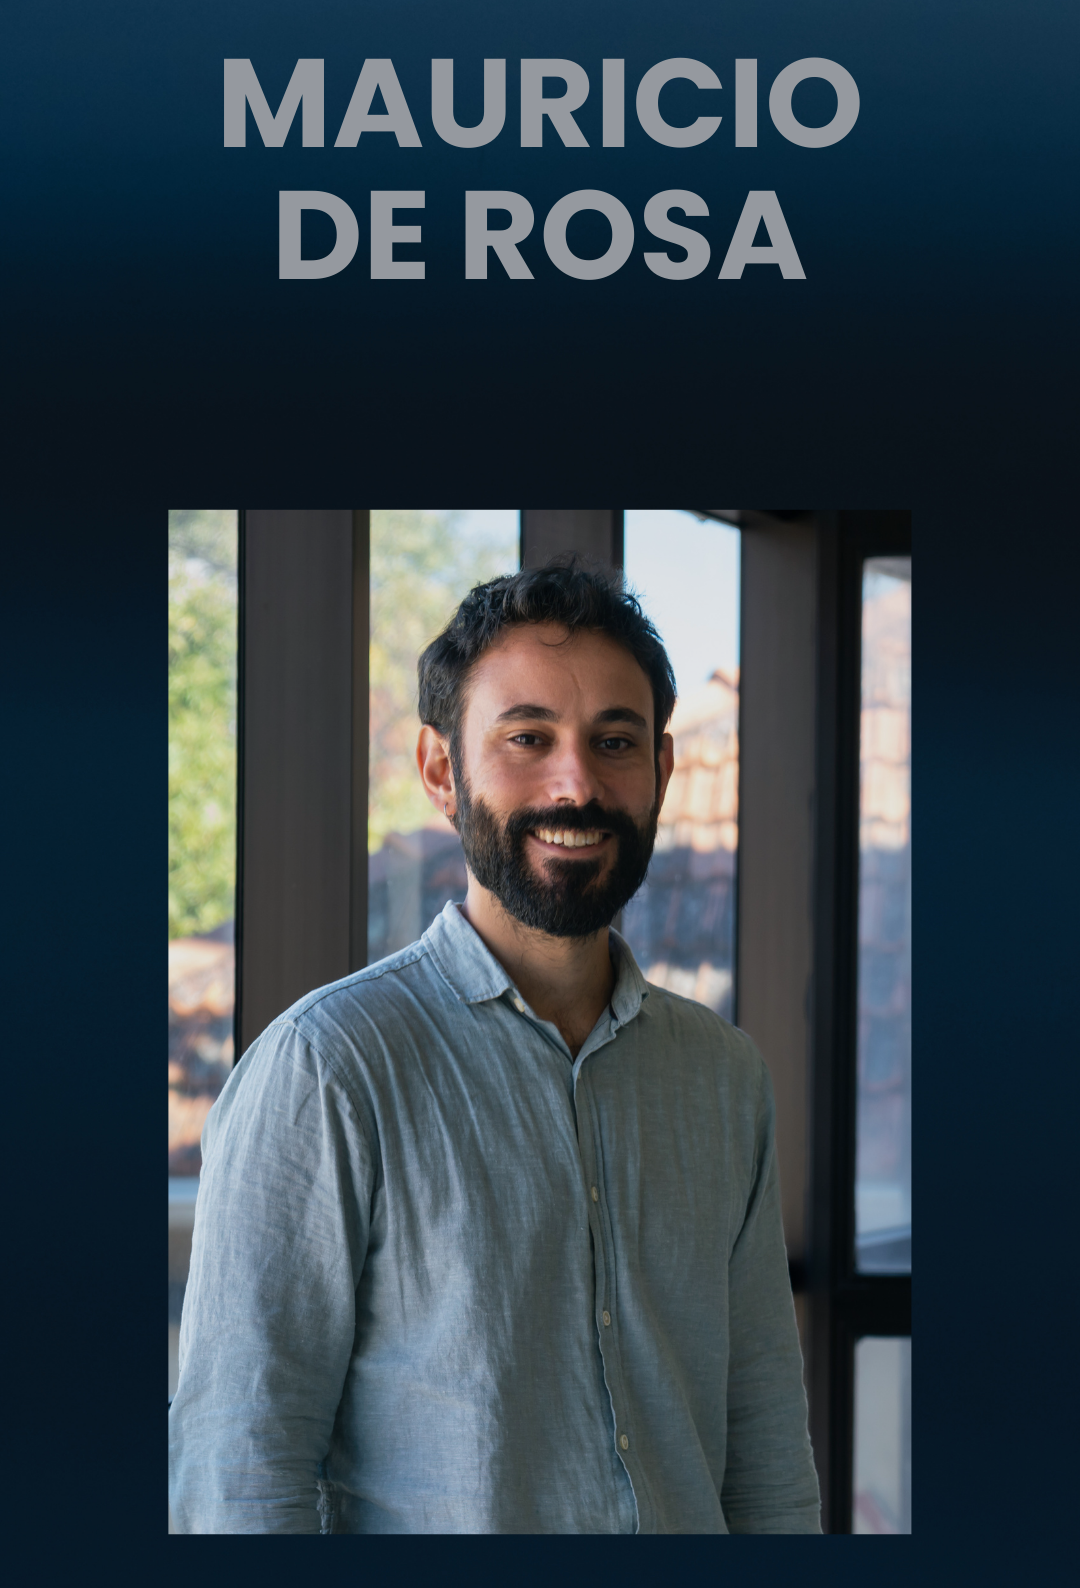
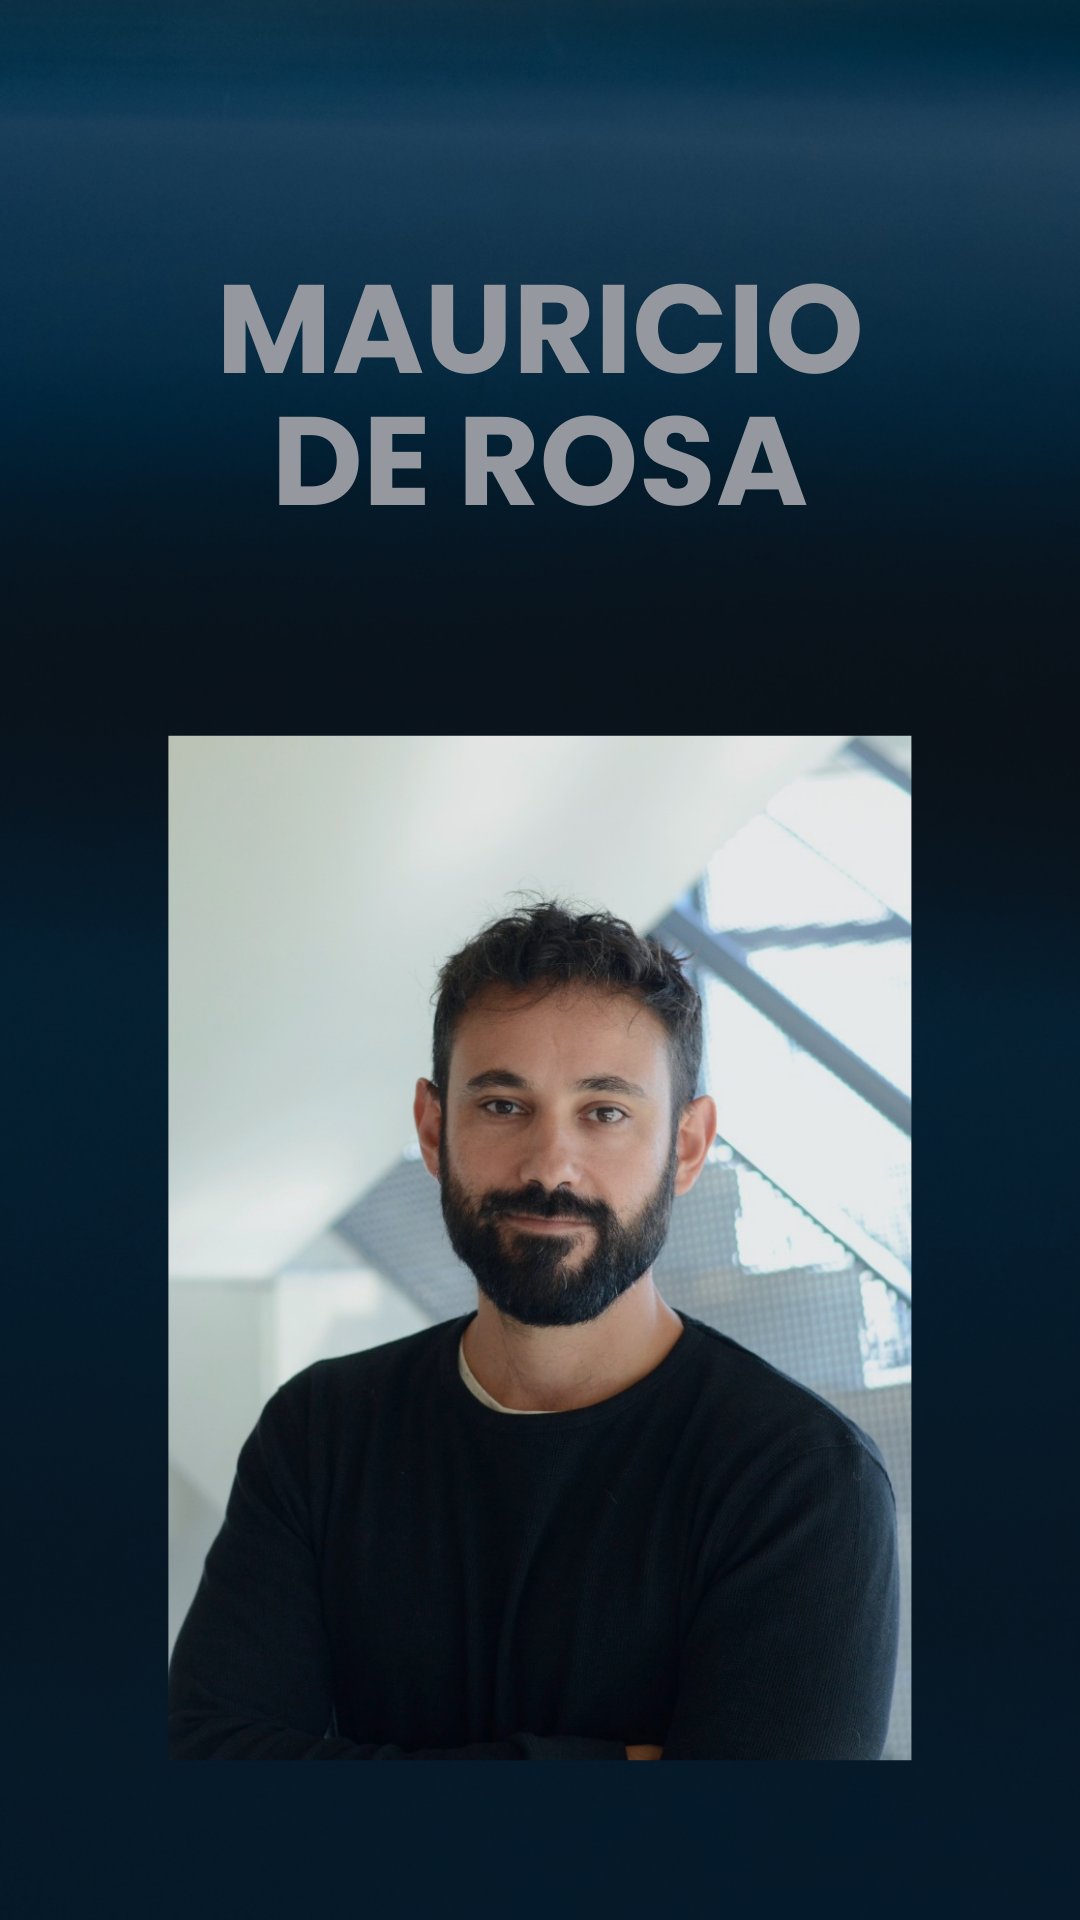
sgregp cosas

diff --git a/index.html b/index.html
@@ -58,23 +58,30 @@
                 <h1 class="tituloFormacion">FORMACIÓN</h1>
             </div>
             <div class="formacion">
-              <div class="card" id="cardU" style="background-color:white; color:#071928; padding: 0">
-                <h5 class="card-tile" id="cardT">Doctorado en Economía.</h5>
-                <div id="divCardS">
-                    <h6 class="card-subtitle" id="cardS">Paris School of Economics</h6>
-                    <h6 class="card-subtitle" id="cardS"> - École des Hautes Études en Sciences Sociales (EHESS).</h6>
-                    <h6 class="card-subtitle" id="cardS">2019 - 2023.</h6>
-                </div>
-                <div id="divCardP">
-                    <h6 class="card-subtitle" id="cardP" style="color:#071928">
-                    Tesis: “Essays on Capital and Inequality in
-                    Latin America”.
-                    </h6>
-                    <h6 class="card-subtitle" id="cardR">
-                        Supervisores: Thomas Piketty y Facundo Alvaredo.
-                    </h6>
-                </div>
-              </div>
+              <div class="divFormacionUno">
+                <a target="_blank" class="anclaFormacion" href="http://piketty.pse.ens.fr/files/DeRosa2023.pdf">
+                  <div class="card" id="cardU" style="background-color:white; color:#071928; padding: 0">
+                    <h5 class="card-tile" id="cardT">Doctorado en Economía.</h5>
+                    <div id="divCardS">
+                        <h6 class="card-subtitle" id="cardS">Paris School of Economics</h6>
+                        <h6 class="card-subtitle" id="cardS"> - École des Hautes Études en Sciences Sociales (EHESS).</h6>
+                        <h6 class="card-subtitle" id="cardS">2019 - 2023.</h6>
+                    </div>
+                    <div id="divCardP">
+                        <h6 class="card-subtitle" id="cardP" style="color:#071928">
+                        Tesis: “Essays on Capital and Inequality in
+                        Latin America”.
+                        </h6>
+                        <h6 class="card-subtitle" id="cardR">
+                            Supervisores: Thomas Piketty y Facundo Alvaredo.
+                        </h6>
+                    </div>
+                    <p class='parrafoCardInicio'>Toca para ir al contrenido</p>
+                  </div>
+                  </a>
+            </div>
+            <div class="divFormacionUno">
+            <a target="_blank" class="anclaFormacion" href="http://piketty.pse.ens.fr/files/DeRosa2019.pdf">
               <div class="card" id="cardU" style="background-color:white; color:#071928; padding: 0">
                 <h5 class="card-title" id="cardTDos">Maestría en Economía.</h5>
                 <h5 class="card-title" id="cardTTres">(Políticas Públicas y Desarrollo).</h5>
@@ -88,35 +95,47 @@
                     <div class="divSuprRef">
                     <h6 class="card-subtitle" id="cardR">Supervisor: Facundo Alvaredo;</h6>
                     <h6 class="card-subtitle" id="cardR">Referee: Thomas Piketty.</h6>
-                    </div>
+                  </div>
+                  <p class='parrafoCardInicio'>Toca para ir al contrenido</p>
                 </div>
             </div>
-            <div class="card" id="cardU" style="background-color:white; color:#071928; padding: 0">
-                <h5 class="card-text" id="cardT">Maestría en Economía.</h5>
-                <div id="divCardS">
-                    <h6 class="card-subtitle" id="cardS">Facultad de Ciencias Económicas y de Administración</h6>
-                    <h6 class="card-subtitle" id="cardS"> - Universidad de la República</h6>
-                    <h6 class="card-subtitle" id="cardS">2011 - 2016</h6>
-                </div>
-                <div id="divCardP">
-                    <h6 class="card-subtitle" id="cardP" style="color:#071928">Tesis de Maestría: “Distribución de la riqueza en Uruguay: una aproximación por el método de capitalización”.</h6>
-                    <h6 class="card-subtitle" id="cardR">Tutora: Andrea Vigorito.</h6>
-                </div>
-            </div>
-            <div class="card" id="cardU" style="background-color:white; color:#071928; padding: 0">
-              <h5 class="card-title" id="cardT">Licenciatura en Economía.</h5>
+            </a>
+          </div>
+          <div class="divFormacionUno">
+            <a target="_blank" class="anclaFormacion" href="https://www.colibri.udelar.edu.uy/jspui/handle/20.500.12008/31088">
+              <div class="card" id="cardU" style="background-color:white; color:#071928; padding: 0">
+                  <h5 class="card-text" id="cardT">Maestría en Economía.</h5>
+                  <div id="divCardS">
+                      <h6 class="card-subtitle" id="cardS">Facultad de Ciencias Económicas y de Administración</h6>
+                      <h6 class="card-subtitle" id="cardS"> - Universidad de la República</h6>
+                      <h6 class="card-subtitle" id="cardS">2011 - 2016</h6>
+                  </div>
+                  <div id="divCardP">
+                      <h6 class="card-subtitle" id="cardP" style="color:#071928">Tesis de Maestría: “Distribución de la riqueza en Uruguay: una aproximación por el método de capitalización”.</h6>
+                      <h6 class="card-subtitle" id="cardR">Tutora: Andrea Vigorito.</h6>
+                  </div>
+                  <p class='parrafoCardInicio'>Toca para ir al contrenido</p>
+              </div>
+              </a>
+          </div>
+          <div class="divFormacionDos">
+            <a target="_blank" class="anclaFormacion" href="https://www.colibri.udelar.edu.uy/jspui/handle/20.500.12008/251">
+              <div class="card" id="cardU" style="background-color:white; color:#071928; padding: 0">
+                <h5 class="card-title" id="cardT">Licenciatura en Economía.</h5>
                   <div id="divCardS">
                   <h6 class="card-subtitle" id="cardS">Facultad de Ciencias Económicas y de Administración</h6>
                   <h6 class="card-subtitle" id="cardS">- Universidad de la República</h6>
                   <h6 class="card-subtitle" id="cardS">2005 - 2010, Plan 1990.</h6>
-          </div>
-          <div id="divCardP">
-              <h6 class="card-h6 card-subtitle" id="cardP" style="color:#071928">Tesis de Grado: “Sistemas tributarios alternativos y su impacto en la distribución del ingreso y la oferta laboral: una aproximación comportamental para el caso uruguayo”.</h6>
-              <h6 class="card-subtitle" id="cardR">Tutor: Rodrigo Arim.</h6>
+                  </div>
+                  <div id="divCardP">
+                  <h6 class="card-h6 card-subtitle" id="cardP" style="color:#071928">Tesis de Grado: “Sistemas tributarios alternativos y su impacto en la distribución del ingreso y la oferta laboral: una aproximación comportamental para el caso uruguayo”.</h6>
+                  <h6 class="card-subtitle" id="cardR">Tutor: Rodrigo Arim.</h6>
+                  </div>
+                  <p class='parrafoCardInicio'>Toca para ir al contrenido</p>
+              </div>
+            </a>
           </div>
         </div>
-          
-            </div>
         </div>
   </main>
   <footer>

diff --git a/pages/prensa.html b/pages/prensa.html
@@ -57,7 +57,26 @@
     
 
         <div class='divPrensaUno d-flex row justify-content-center'>
-
+            <div class='col-md-3 col-sm-12 divTarjetaPrensa d-flex align-items-center ex-column text-center'>
+                <a class="linkPrensa" target='_blank' href="https://semanariovoces.com/mauricio-de-rosa-economista-en-campana-electoral-hablar-de-impuestos-es-mala-palabra-y-un-suicidio-politico/#google_vignette">
+                    <div class='card cardPrensa d-flex flex-column align-items-center'>
+                        <img class="imgPrensaNueve" src="../assets/img/prensaNueve.jpeg" alt="imgPrensa">
+                        <div id='cuerpoCard'>
+                            <p class='parrafoCardPrensa'>Toca para ir al contrenido</p>
+                        </div>
+                    </div>
+                </a>
+            </div>
+            <div class='col-md-3 col-sm-12 divTarjetaPrensa d-flex align-items-center ex-column text-center'>
+                <a class="linkPrensa" target='_blank' href="https://www.sarandi690.com.uy/2024/04/16/como-esta-el-uruguay-con-respecto-a-la-pobreza-y-la-desigualdad-comaprado-con-2019/">
+                    <div class='card cardPrensa'>
+                        <img class="imgPrensaUno" src="../assets/img/prensaDiez.png" alt="imgPrensa">
+                        <div id='cuerpoCard'>
+                            <p class='parrafoCardPrensa'>Toca para ir al contrenido</p>
+                        </div>
+                    </div>
+                </a>
+            </div>
             <div class='col-md-3 col-sm-12 divTarjetaPrensa d-flex align-items-center ex-column text-center'>
                 <a class="linkPrensa" target='_blank' href="https://administrador.m24.com.uy/uno-no-puede-jugar-al-empate-con-el-empleo-y-ganar-el-partido-de-la-pobreza-apuntaron-de-rosa-y-vigorito/">
                     <div class='card cardPrensa'>
@@ -68,8 +87,8 @@
                     </div>
                 </a>
             </div>
-
-
+        </div>
+        <div class='divPrensaUno d-flex row justify-content-center'>
             <div class='col-md-3 col-sm-12 divTarjetaPrensa d-flex flex-column align-items-center text-center'>
                 <a class="linkPrensa" target='_blank' href="https://twitter.com/laletrachicatv/status/1648134676677050368">
                     <div class='card cardPrensa'>
@@ -81,8 +100,6 @@
                     </div>
                 </a>
             </div>
-
-
             <div class='col-md-3 col-sm-12 divTarjetaPrensa d-flex flex-column align-items-center text-center'>
                 <a class="linkPrensa" target='_blank' href="https://www.sarandi690.com.uy/2022/05/09/matias-de-rosa-la-pregunta-central-que-tenemos-que-responder-es-si-estamos-o-no-en-un-cambio-de-tendencia-en-pobreza-y-desigualdad/">
                     <div class='card cardPrensa'>
@@ -93,35 +110,32 @@
                     </div>
                 </a>
             </div>
-        </div>
-        <div class='divPrensaUno d-flex row justify-content-center'>
             <div class='col-md-3 col-sm-12 divVideo d-flex flex-column text-center align-items-center'>
                 <iframe class='videoPrensa' src="https://www.youtube.com/embed/PNNMQ_kOGi4?si=JjTtTFAi_XkFwuOI" title="YouTube video player" allow="accelerometer; autoplay; clipboard-write; encrypted-media; gyroscope; picture-in-picture; web-share" referrerpolicy="strict-origin-when-cross-origin" allowfullscreen></iframe>
                 <a class="linkPrensa" target='_blank' href="https://www.youtube.com/watch?v=PNNMQ_kOGi4&list=PLST4zdr192bntP5D0bdJx2kNPOjv2pOW1&index=88"><button id='button'>Ir a Youtube</button></a>
             </div>
-
-            <div class='col-md-3 col-sm-12 divTarjetaPrensa d-flex flex-column align-items-center text-center'>
-            <a class="linkPrensa" target='_blank' href="https://delsol.uy/notoquennada/ronda/pobreza-y-asistencia-estatal-demasiado-poco-pero-todavia-no-demasiado-tarde">
-                <div class='card cardPrensa'>
-                <div id='cuerpoCard'>
-                    <img class="imgPrensaUno" src="../assets/img/prensaCuatro.png" alt="imgPrensa">
-                <p class='parrafoCardPrensa'>Toca para ir al contrenido</p>
-                </div>
-                </div></a>
-            </div>
-
-            <div class='col-md-3 col-sm-12 divTarjetaPrensa d-flex flex-column align-items-center text-center'>
-            <a class="linkPrensa" target='_blank' href="https://delsol.uy/facildesviarse/entrevista/unas-100000-personas-cayeron-en-la-pobreza-en-abril-segun-economistas-de-udelar">
-                <div class='card cardPrensa'>
-                <div id='cuerpoCard'>
-                    <img class="imgPrensaUno" src="../assets/img/prensaCinco.png" alt="imgPrensa">
-                <p class='parrafoCardPrensa'>Toca para ir al contrenido</p>
-                </div>
-                </div>
-            </a>
-            </div>
         </div>
         <div class='divPrensaDos'>
+            <div class='col-md-3 col-sm-12 divTarjetaPrensa d-flex flex-column align-items-center text-center'>
+                <a class="linkPrensa" target='_blank' href="https://delsol.uy/notoquennada/ronda/pobreza-y-asistencia-estatal-demasiado-poco-pero-todavia-no-demasiado-tarde">
+                    <div class='card cardPrensa'>
+                    <div id='cuerpoCard'>
+                        <img class="imgPrensaUno" src="../assets/img/prensaCuatro.png" alt="imgPrensa">
+                    <p class='parrafoCardPrensa'>Toca para ir al contrenido</p>
+                    </div>
+                    </div></a>
+                </div>
+    
+                <div class='col-md-3 col-sm-12 divTarjetaPrensa d-flex flex-column align-items-center text-center'>
+                <a class="linkPrensa" target='_blank' href="https://delsol.uy/facildesviarse/entrevista/unas-100000-personas-cayeron-en-la-pobreza-en-abril-segun-economistas-de-udelar">
+                    <div class='card cardPrensa'>
+                    <div id='cuerpoCard'>
+                        <img class="imgPrensaUno" src="../assets/img/prensaCinco.png" alt="imgPrensa">
+                    <p class='parrafoCardPrensa'>Toca para ir al contrenido</p>
+                    </div>
+                    </div>
+                </a>
+                </div>
             <div class='col-md-3 col-sm-12 divVideoUltimo d-flex flex-column text-center align-items-center'>
                 <iframe class='videoPrensa' src="https://www.youtube.com/embed/Qrv312gOsGA?si=h82VfvQJ2YV5wqAi" title="YouTube video player" allow="accelerometer; autoplay; clipboard-write; encrypted-media; gyroscope; picture-in-picture; web-share" referrerpolicy="strict-origin-when-cross-origin" allowfullscreen></iframe>
                 <a target='_blank' href="https://www.youtube.com/watch?v=Qrv312gOsGA&t=464s"><button id='button'>Ir a Youtube</button></a>

diff --git a/css/index.css b/css/index.css
@@ -118,10 +118,39 @@ justify-content: center;
     color: #d3d5d7de;
     margin-top: 3%;
 }
+.divFormacionUno{
+    width: 25%;
+    margin-left: 1%;
+    display: flex;
+    justify-content: center;
+    align-items: center;
+}
+.divFormacionDos{
+    width: 25%;
+    margin-left: 1%;
+    margin-right: 1%;
+    display: flex;
+    justify-content: center;
+}
+.parrafoCardInicio{
+    color: #4d70a5;
+    font-size: small;
+    margin-bottom: 0%;
+}
     #cardU{
         font-family: Georgia,'Times New Roman', Times, serif;
         font-family: 'Poppins', sans-serif;
-        width:20rem;
+        width:100%;
+        height:29rem;
+        display: flex;
+        flex-direction: column;
+        align-items: center;
+        text-align: center;
+    }
+    #cardU:hover{
+        font-family: Georgia,'Times New Roman', Times, serif;
+        font-family: 'Poppins', sans-serif;
+        width:100%;
         height:29rem;
         display: flex;
         flex-direction: column;
@@ -252,7 +281,9 @@ justify-content: center;
         font-size: x-large;
         margin-right: 1%;
     }
-
+    .anclaFormacion{
+        text-decoration: none;
+    }
 @media screen and (min-width: 0px) and (max-width: 768px){
     body{
         width: 100vw;
@@ -360,8 +391,38 @@ justify-content: center;
         flex-direction: column;
         align-items: center;
     }
+    .divFormacionUno{
+        width: 100vw;
+        height: fit-content;
+        margin: 0%;
+        display: flex;
+        justify-content: center;
+    }
+    .divFormacionDos{
+        height: fit-content;
+        width: 100vw;
+        margin: 0%;
+        display: flex;
+        justify-content: center;
+    }
+    .anclaFormacion{
+        text-decoration: none;
+        width: 100%;
+        display: flex;
+        justify-content: center;
+    }
     #cardU{
-        width: 95vw;
+        width: 95%;
+        height: 28rem;
+        display: flex;
+        flex-direction: column;
+        align-items: center;
+        text-align: center;
+        margin-top: 2%;
+        margin-bottom: 4%;
+    }
+    #cardU:hover{
+        width: 95%;
         height: 28rem;
         display: flex;
         flex-direction: column;

diff --git a/pages/publicaciones.html b/pages/publicaciones.html
@@ -144,7 +144,7 @@
         <div class='divPublicacionesDos'>
 
             <div class='col-md-3 col-sm-12 divTarjetaPublicaciones'>
-                <a class="linkPubli" target='_blank' href="https://onlinelibrary.wiley.com/doi/10.1111/roiw.12683">
+                <a class="linkPubli" target='_blank' href="https://eprints.lse.ac.uk/119426/">
                     <div class='card cardPublicacionesUno d-flex flex-column text-center align-items-center'>
                     <img class="imgPublicacionUno" src="../assets/img/publiSiete.png" alt="imgPublicacion">
                 <div id='cuerpoCard'>

diff --git a/css/prensa.css b/css/prensa.css
@@ -203,6 +203,14 @@ body{
     width: 450px;
     height: 380px;
 }
+.imgPrensaNueve{
+    width: 350px;
+    height: 350px;
+}
+.imgPrensaNueve:hover{
+    width: 375px;
+    height: 380px;
+}
 .divVideo{
     width: 33%;
 }
@@ -436,8 +444,16 @@ body{
         height: 380px;
     }
     .imgPrensaUno:hover{
-        width: 95vw;
+        width: 99vw;
         height: 380px;
+    }
+    .imgPrensaNueve{
+        width: 99vw;
+        height: 510px;
+    }
+    .imgPrensaNueve:hover{
+        width: 95vw;
+        height: 510px;
     }
     .videoPrensa{
         width: 95vw;
